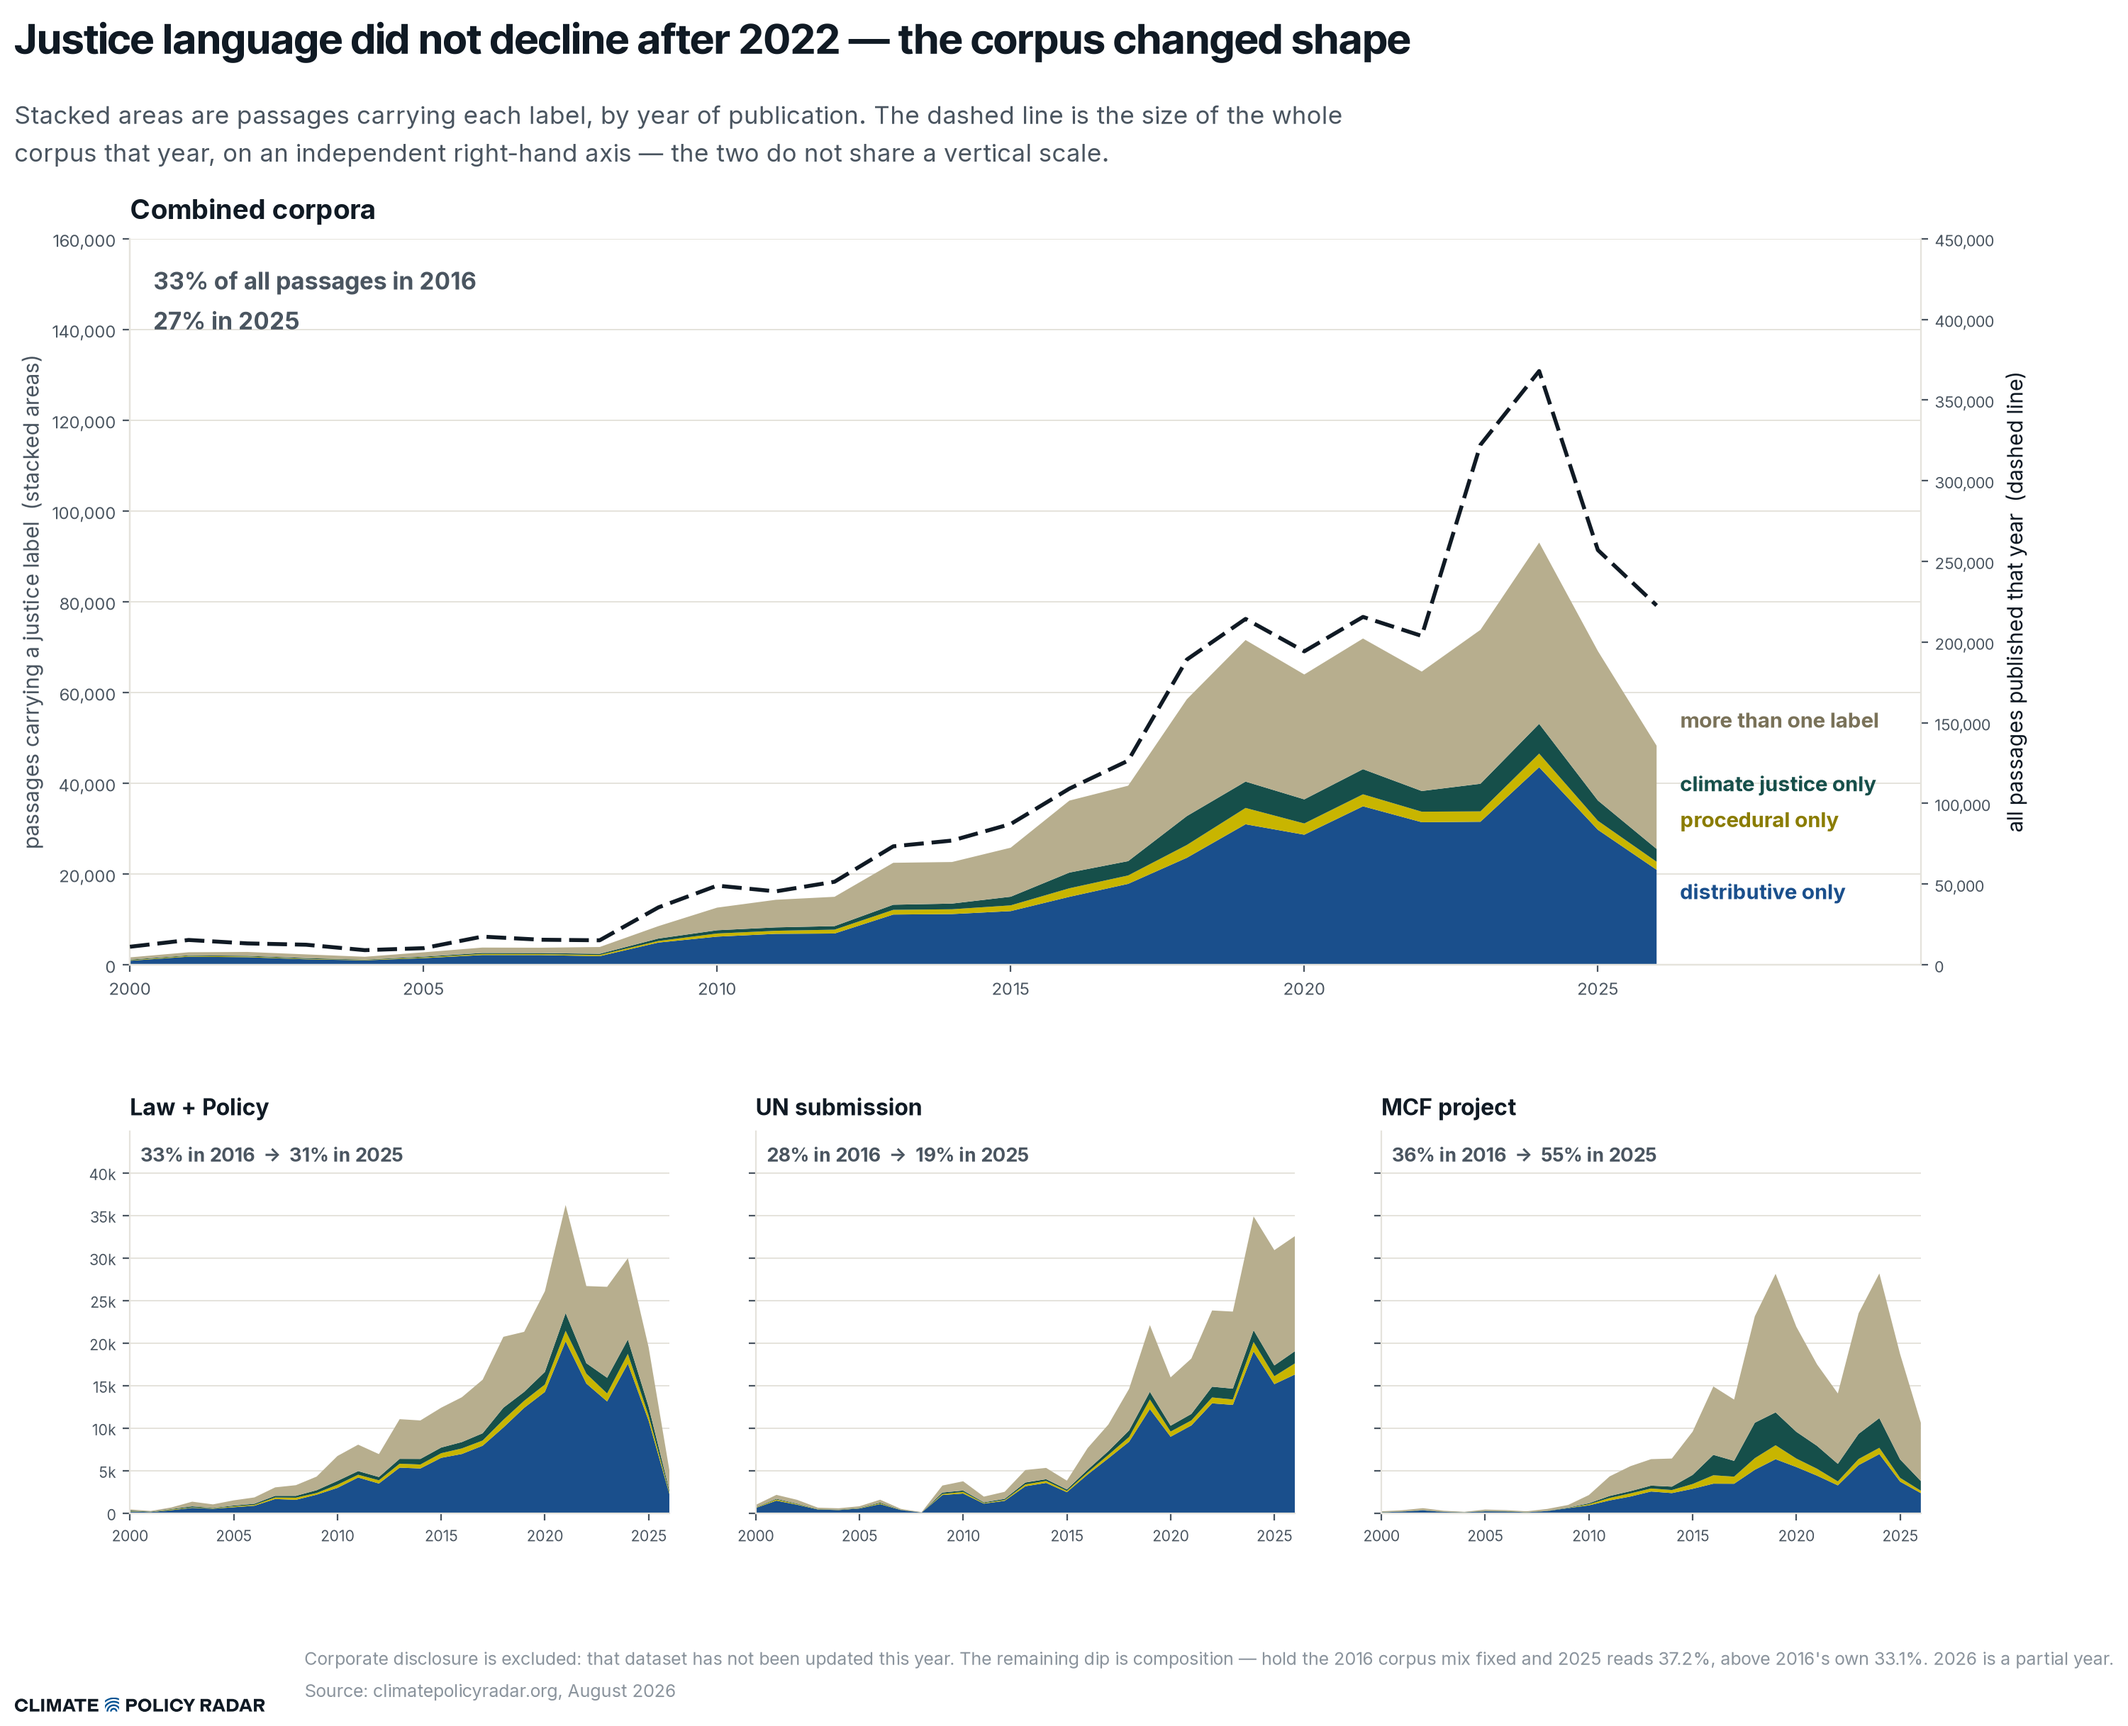
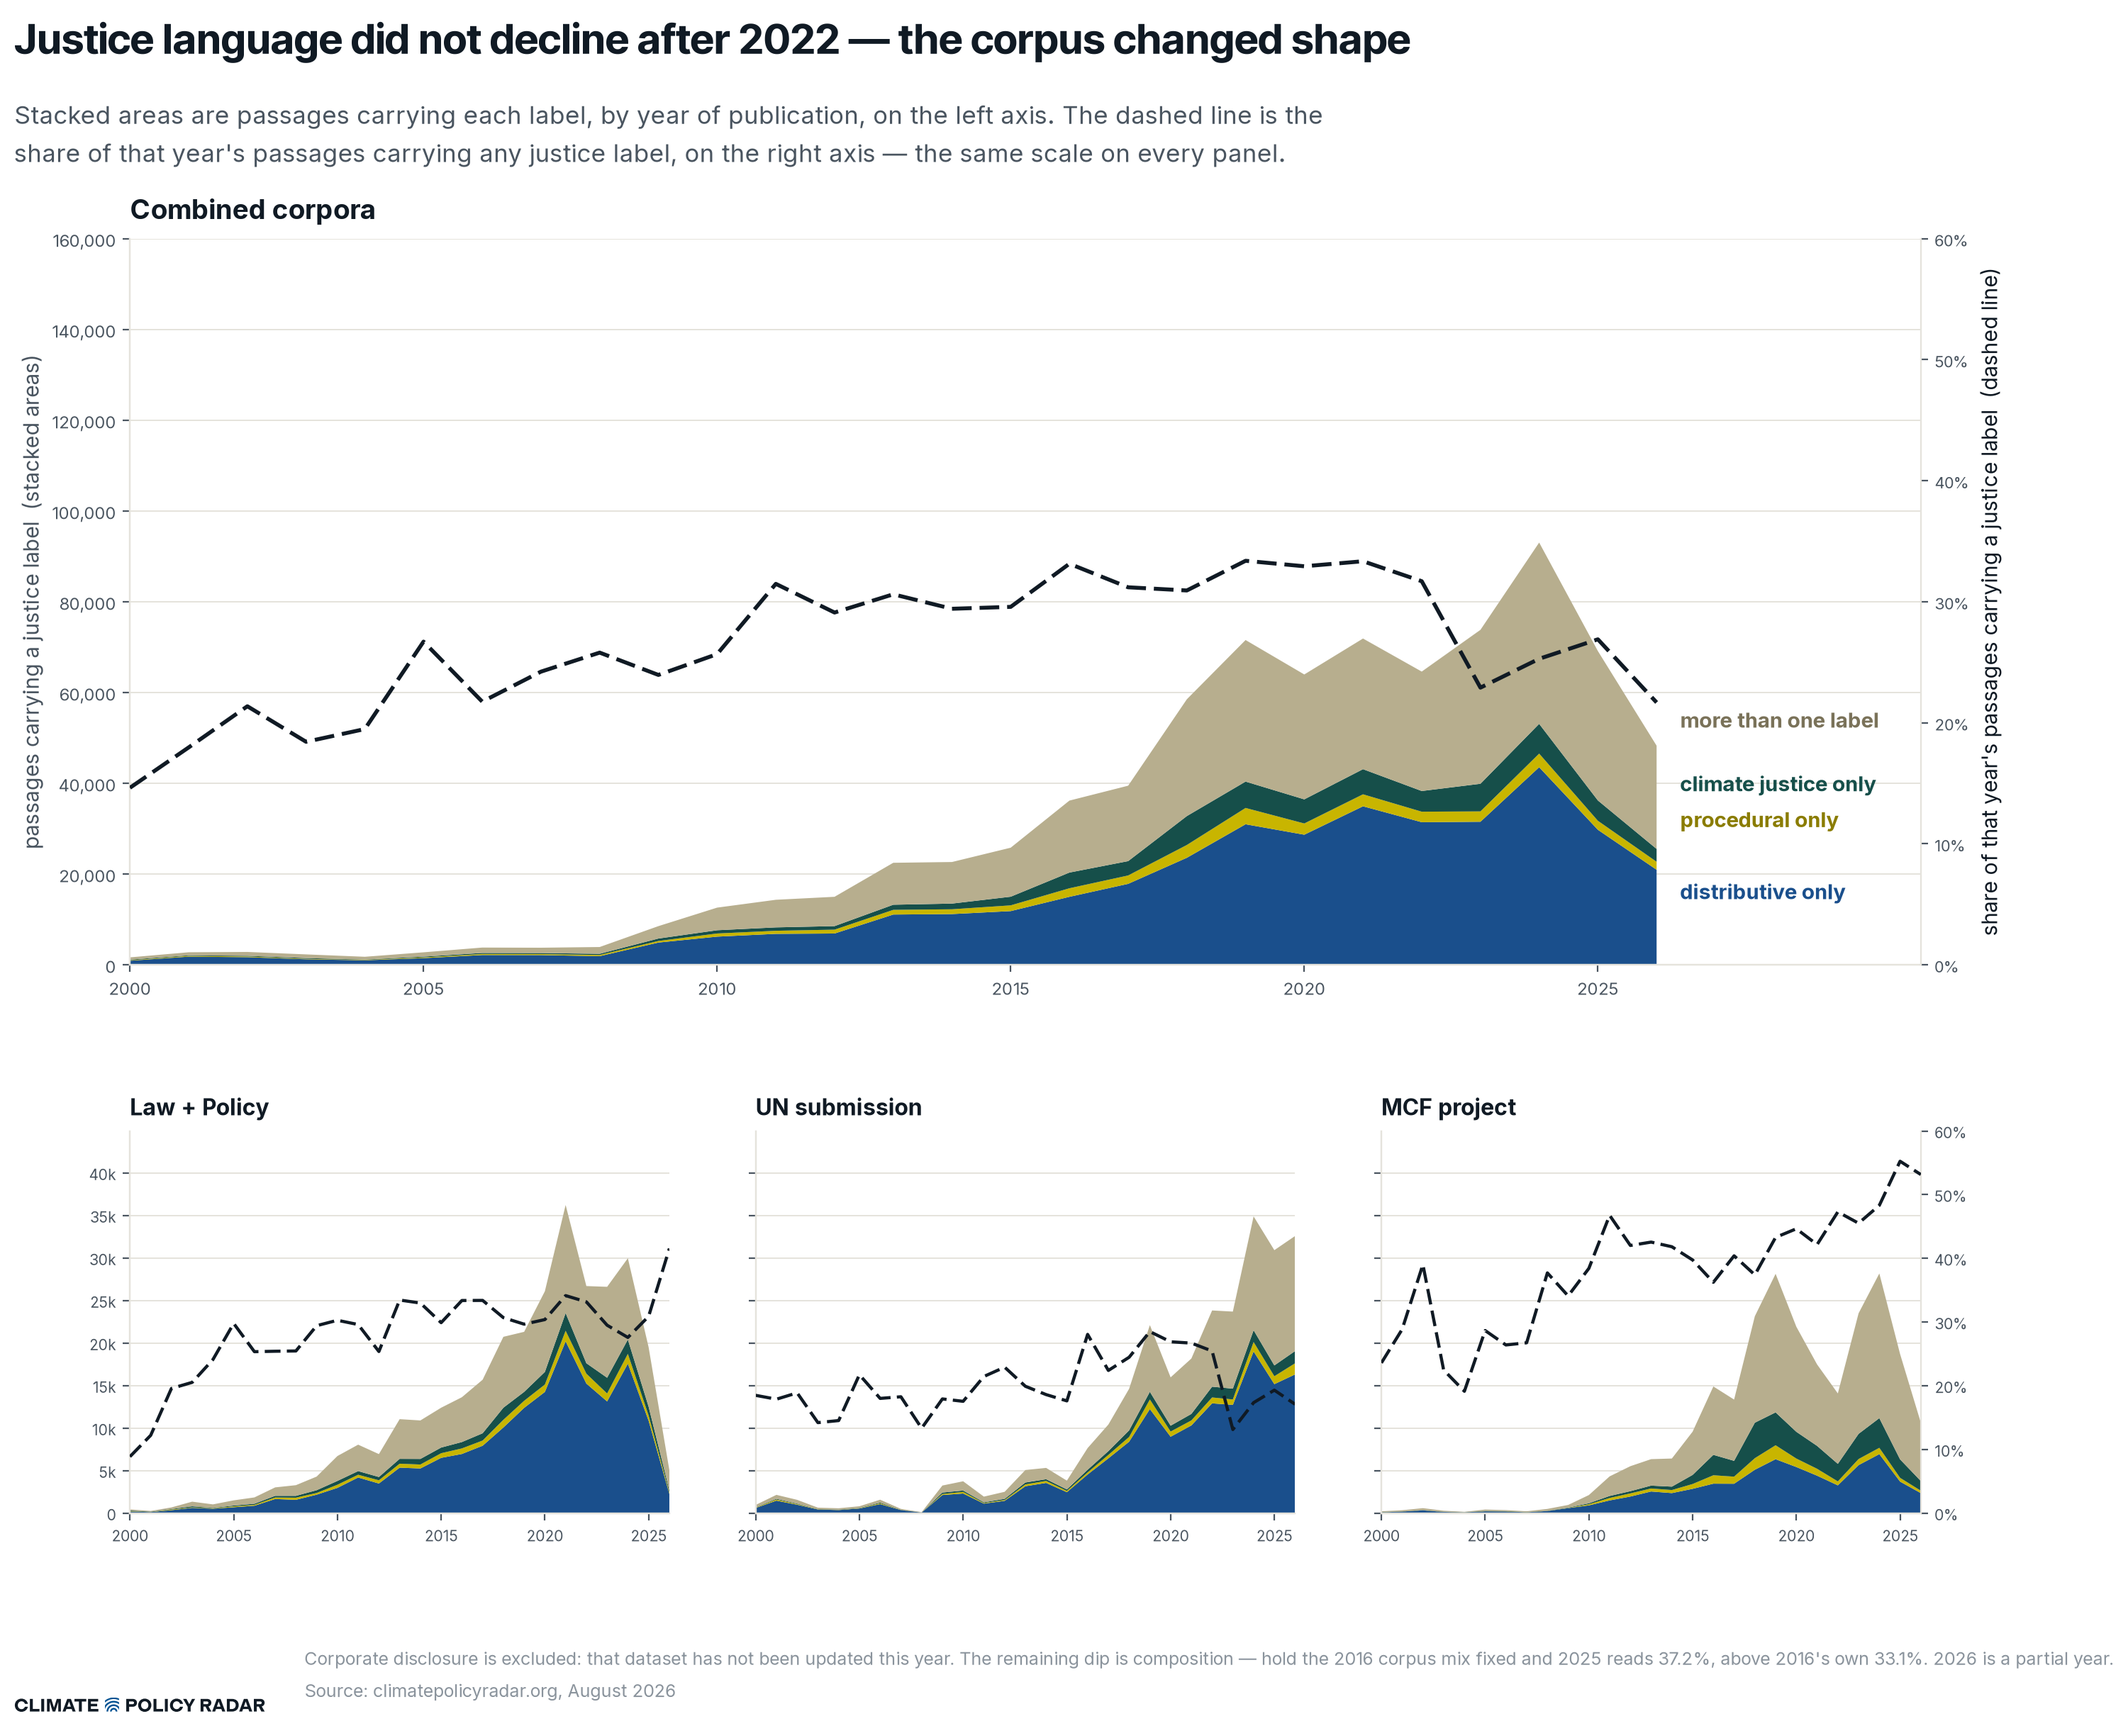
Show justice share, not corpus size, on the timeline's dashed line
The dashed line was the absolute number of passages published each year, which
answered a question the reader did not have and could not be put on the small
multiples without a second scale. It now shows the share of that year's
passages carrying any justice label, on a 0-60% axis shared by every panel.

This makes the per-corpus story readable directly off the chart rather than
from an annotation: multilateral fund projects climb from roughly a quarter to
55%, UN submissions drift down, Law + Policy holds flat. The text annotations
those lines replace are removed.

Only the rightmost small panel carries the share scale; the others hide the
tick labels and the spine so an unlabelled axis line does not read as a stray
rule.

diff --git a/scripts/climate_justice_analysis/viz.py b/scripts/climate_justice_analysis/viz.py
@@ -1039,6 +1039,10 @@ def fig_concept_overlap() -> None:
 # ---------------------------------------------------------------- figure 9
 MULTI = hs.NEUTRAL
 
+# Common ceiling for every share axis so the panels compare directly. MCF peaks
+# at 55%, the highest of any corpus in any year.
+SHARE_MAX = 60
+
 
 def _stack(ax, sub, bands, x):
     ax.stackplot(
@@ -1078,23 +1082,20 @@ def fig_timeline() -> None:
     ax = fig.add_subplot(gs[0, :])
     _stack(ax, tot, bands, x)
 
+    # The dashed line is the justice *share*, not the corpus size: it answers
+    # the question the stack cannot, and puts the same units on every panel.
+    share = 100 * tot.JUSTICE / tot.PASSAGES_TOTAL
     ax2 = ax.twinx()
-    ax2.plot(
-        x, tot.PASSAGES_TOTAL, color=INK, linewidth=2.0, linestyle=(0, (5, 2)), zorder=5
-    )
+    ax2.plot(x, share, color=INK, linewidth=2.0, linestyle=(0, (5, 2)), zorder=5)
     ax2.set_xlim(2000, 2030.5)
-    # Deliberately not the same headroom as the left axis: with equal headroom
-    # both series peak in 2024 at the same fractional height and the line
-    # appears to trace the top of the stack.
-    # Fixed maxima rather than data-driven headroom, so the corpus line sits
-    # above the stack in every year: 450k/160k = 2.8 is below the smallest
-    # total-to-justice ratio in the series (3.0, at the 2019 peak).
-    ax2.set_ylim(0, 450_000)
+    ax2.set_ylim(0, SHARE_MAX)
     ax2.set_ylabel(
-        "all passages published that year  (dashed line)", fontsize=10.8, color=INK
+        "share of that year's passages carrying a justice label  (dashed line)",
+        fontsize=10.8,
+        color=INK,
     )
     ax2.tick_params(labelsize=8)
-    ax2.yaxis.set_major_formatter(lambda v, _: f"{int(v):,}")
+    ax2.yaxis.set_major_formatter(lambda v, _: f"{int(v)}%")
     ax2.spines[["top"]].set_visible(False)
 
     ax.set_ylim(0, 160_000)
@@ -1130,28 +1131,6 @@ def fig_timeline() -> None:
             weight=700,
         )
 
-    # Share against 2016, the Paris Agreement year, set beside the y-axis.
-    def share(y):
-        return 100 * tot.JUSTICE.loc[y] / tot.PASSAGES_TOTAL.loc[y]
-
-    ax.text(
-        0.013,
-        0.93,
-        f"{share(2016):.0f}% of all passages in 2016",
-        transform=ax.transAxes,
-        fontsize=12.0,
-        weight=700,
-        color=INK2,
-    )
-    ax.text(
-        0.013,
-        0.875,
-        f"{share(2025):.0f}% in 2025",
-        transform=ax.transAxes,
-        fontsize=12.0,
-        weight=700,
-        color=INK2,
-    )
     ax.set_title(
         "Combined corpora", loc="left", fontsize=13.8, weight=700, color=INK, pad=10
     )
@@ -1175,25 +1154,33 @@ def fig_timeline() -> None:
         axi.yaxis.set_major_formatter(lambda v, _: f"{int(v / 1000)}k" if v else "0")
         if i:
             axi.set_yticklabels([])
-        j = sub[cols].sum(axis=1)
-        share_now = 100 * j.loc[2025] / max(sub.PASSAGES_TOTAL.loc[2025], 1)
-        share_then = 100 * j.loc[2016] / max(sub.PASSAGES_TOTAL.loc[2016], 1)
-        axi.set_title(grp, loc="left", fontsize=11.5, weight=700, color=INK, pad=8)
-        axi.text(
-            0.02,
-            0.92,
-            f"{share_then:.0f}% in 2016  \u2192  {share_now:.0f}% in 2025",
-            transform=axi.transAxes,
-            fontsize=9.6,
-            color=INK2,
-            weight=700,
+        axj = axi.twinx()
+        axj.plot(
+            x,
+            100 * sub[cols].sum(axis=1) / sub.PASSAGES_TOTAL.replace(0, np.nan),
+            color=INK,
+            linewidth=1.6,
+            linestyle=(0, (5, 2)),
+            zorder=5,
         )
+        axj.set_ylim(0, SHARE_MAX)
+        axj.set_xlim(2000, 2026)
+        axj.spines[["top"]].set_visible(False)
+        axj.tick_params(labelsize=7.5)
+        axj.yaxis.set_major_formatter(lambda v, _: f"{int(v)}%")
+        if i < len(order) - 1:
+            # Only the rightmost panel carries the share scale; an unlabelled
+            # spine on the others reads as a stray axis line.
+            axj.set_yticklabels([])
+            axj.tick_params(right=False)
+            axj.spines[["right"]].set_visible(False)
+        axi.set_title(grp, loc="left", fontsize=11.5, weight=700, color=INK, pad=8)
 
     fig.subplots_adjust(top=0.85, bottom=0.125, left=0.065, right=0.885)
     titled(
         fig,
         "Justice language did not decline after 2022 \u2014 the corpus changed shape",
-        "Stacked areas are passages carrying each label, by year of publication. The dashed line is the size of the whole\ncorpus that year, on an independent right-hand axis — the two do not share a vertical scale.",
+        "Stacked areas are passages carrying each label, by year of publication, on the left axis. The dashed line is the\nshare of that year's passages carrying any justice label, on the right axis — the same scale on every panel.",
         "Corporate disclosure is excluded: that dataset has not been updated this year. The remaining dip is composition — hold the 2016 corpus mix fixed and 2025 reads 37.2%, above 2016's own 33.1%. 2026 is a partial year.",
     )
     save(fig, "09_timeline")
